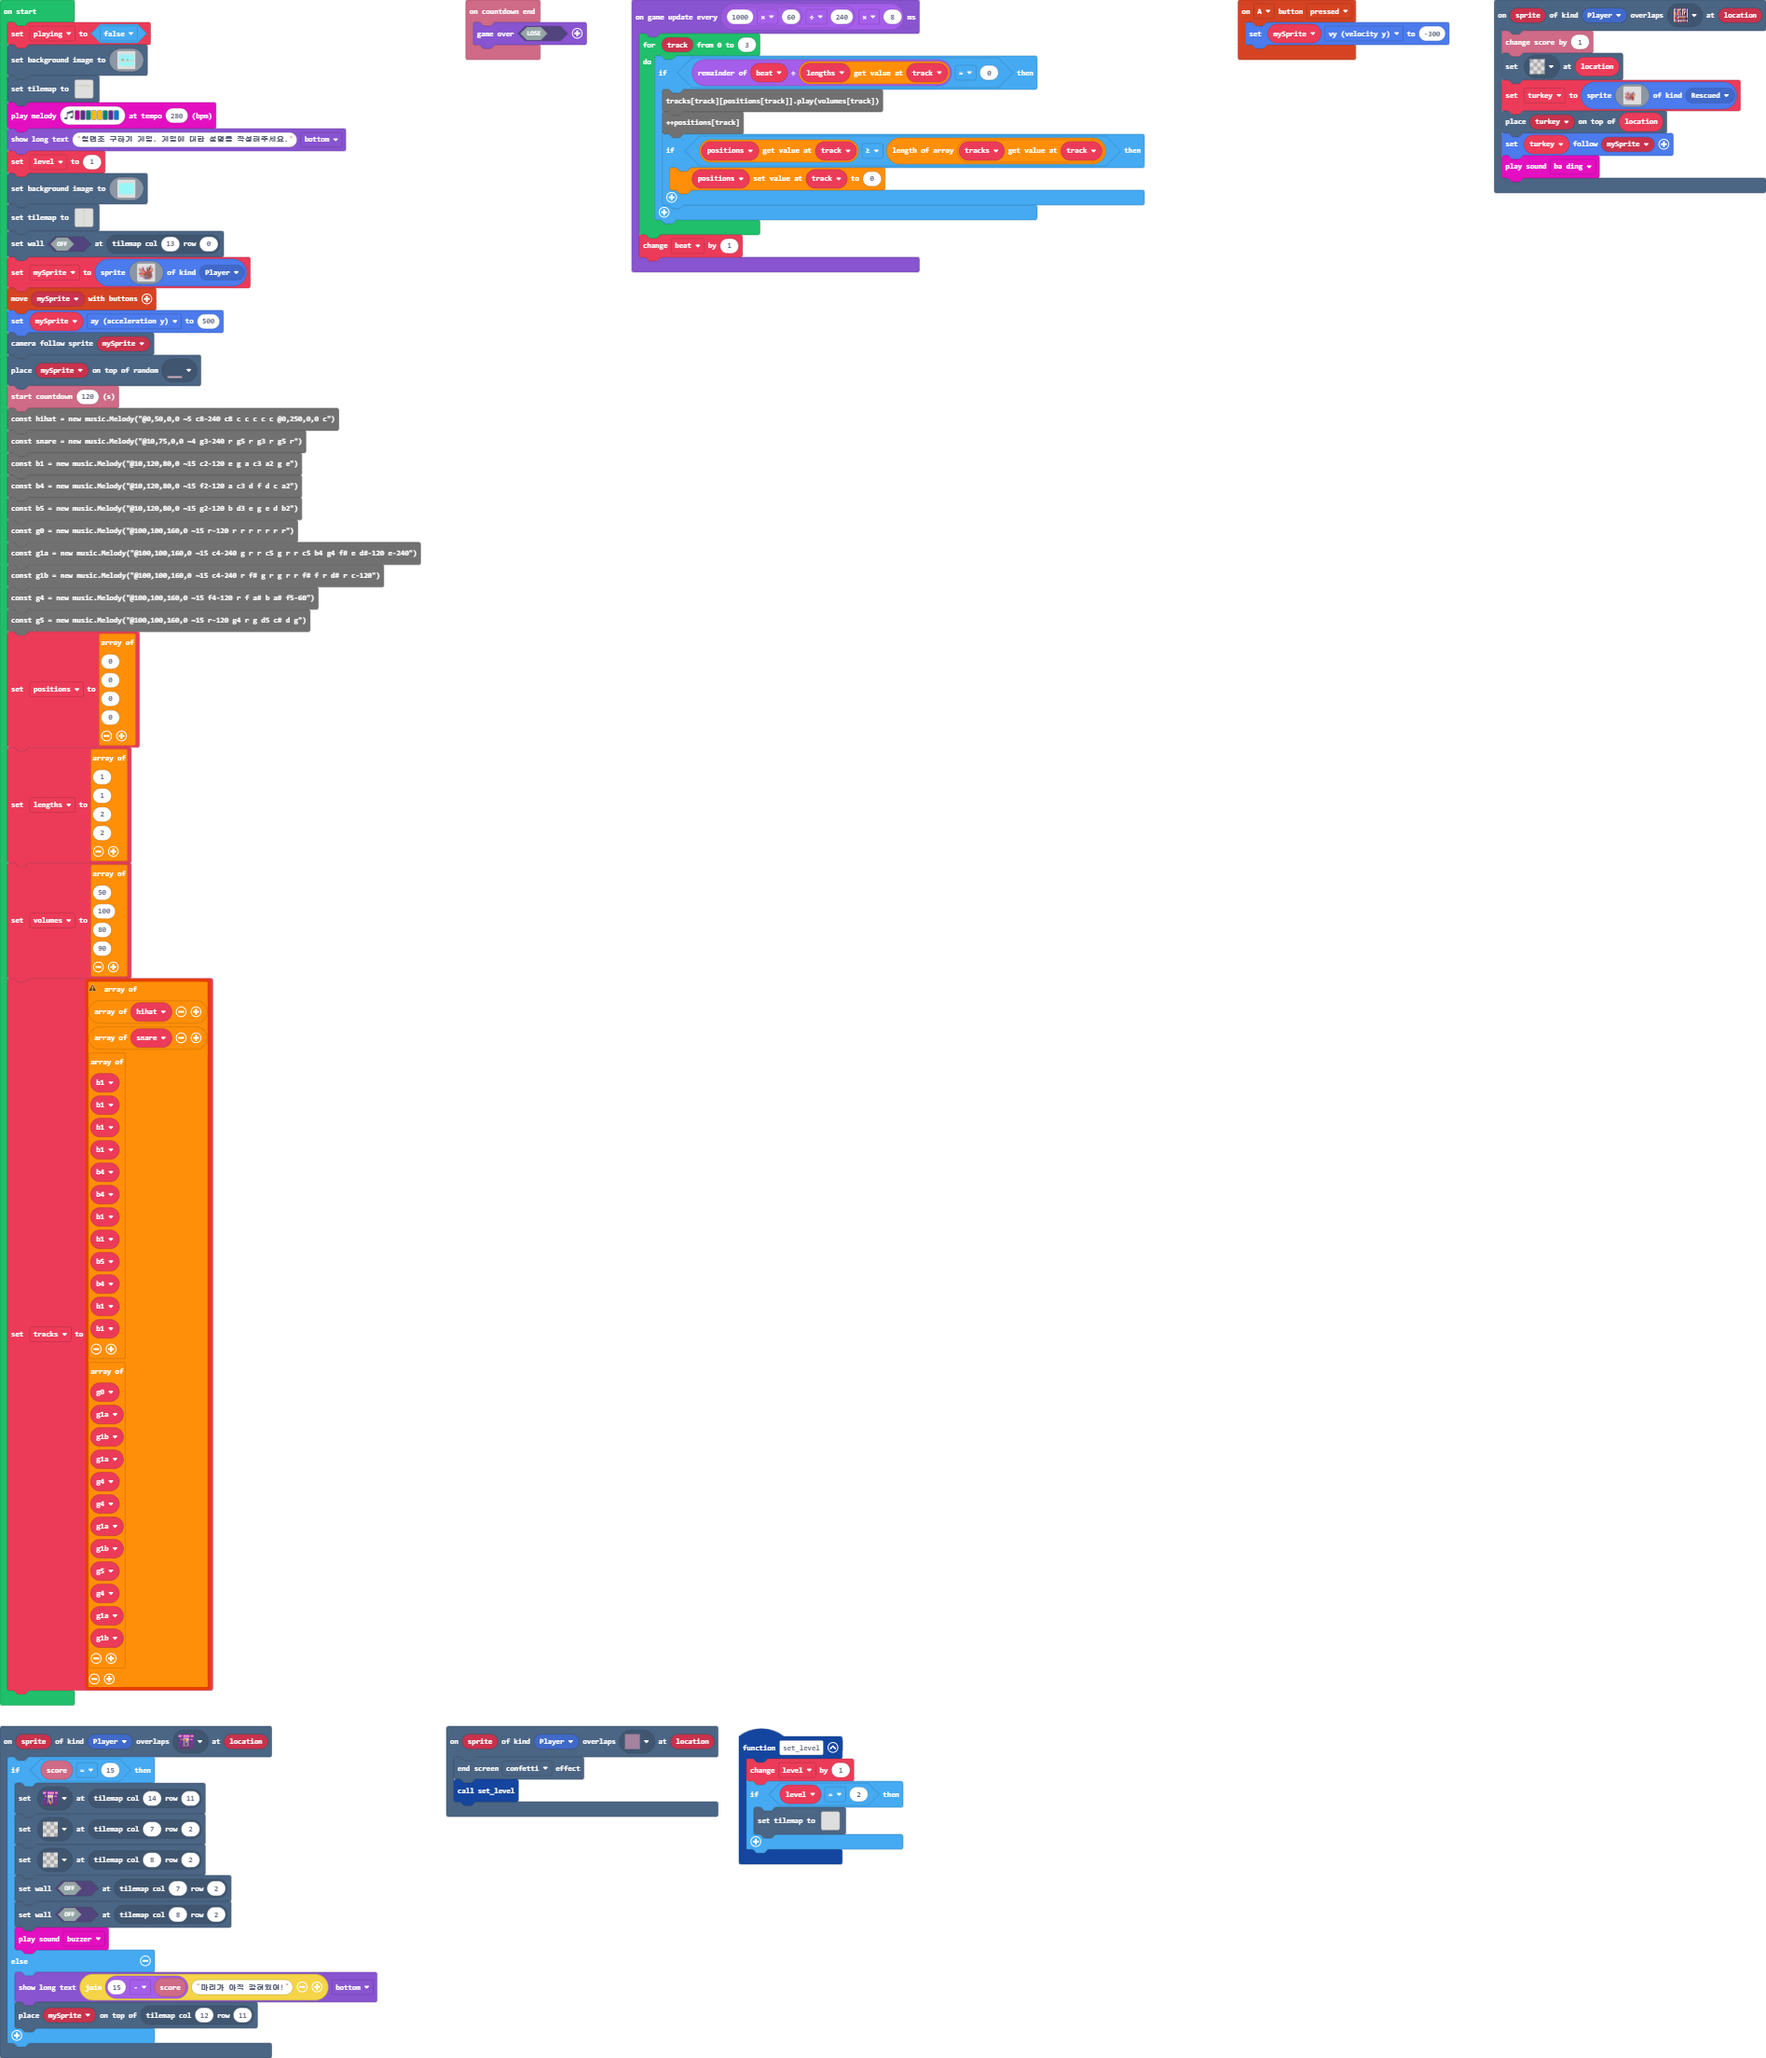
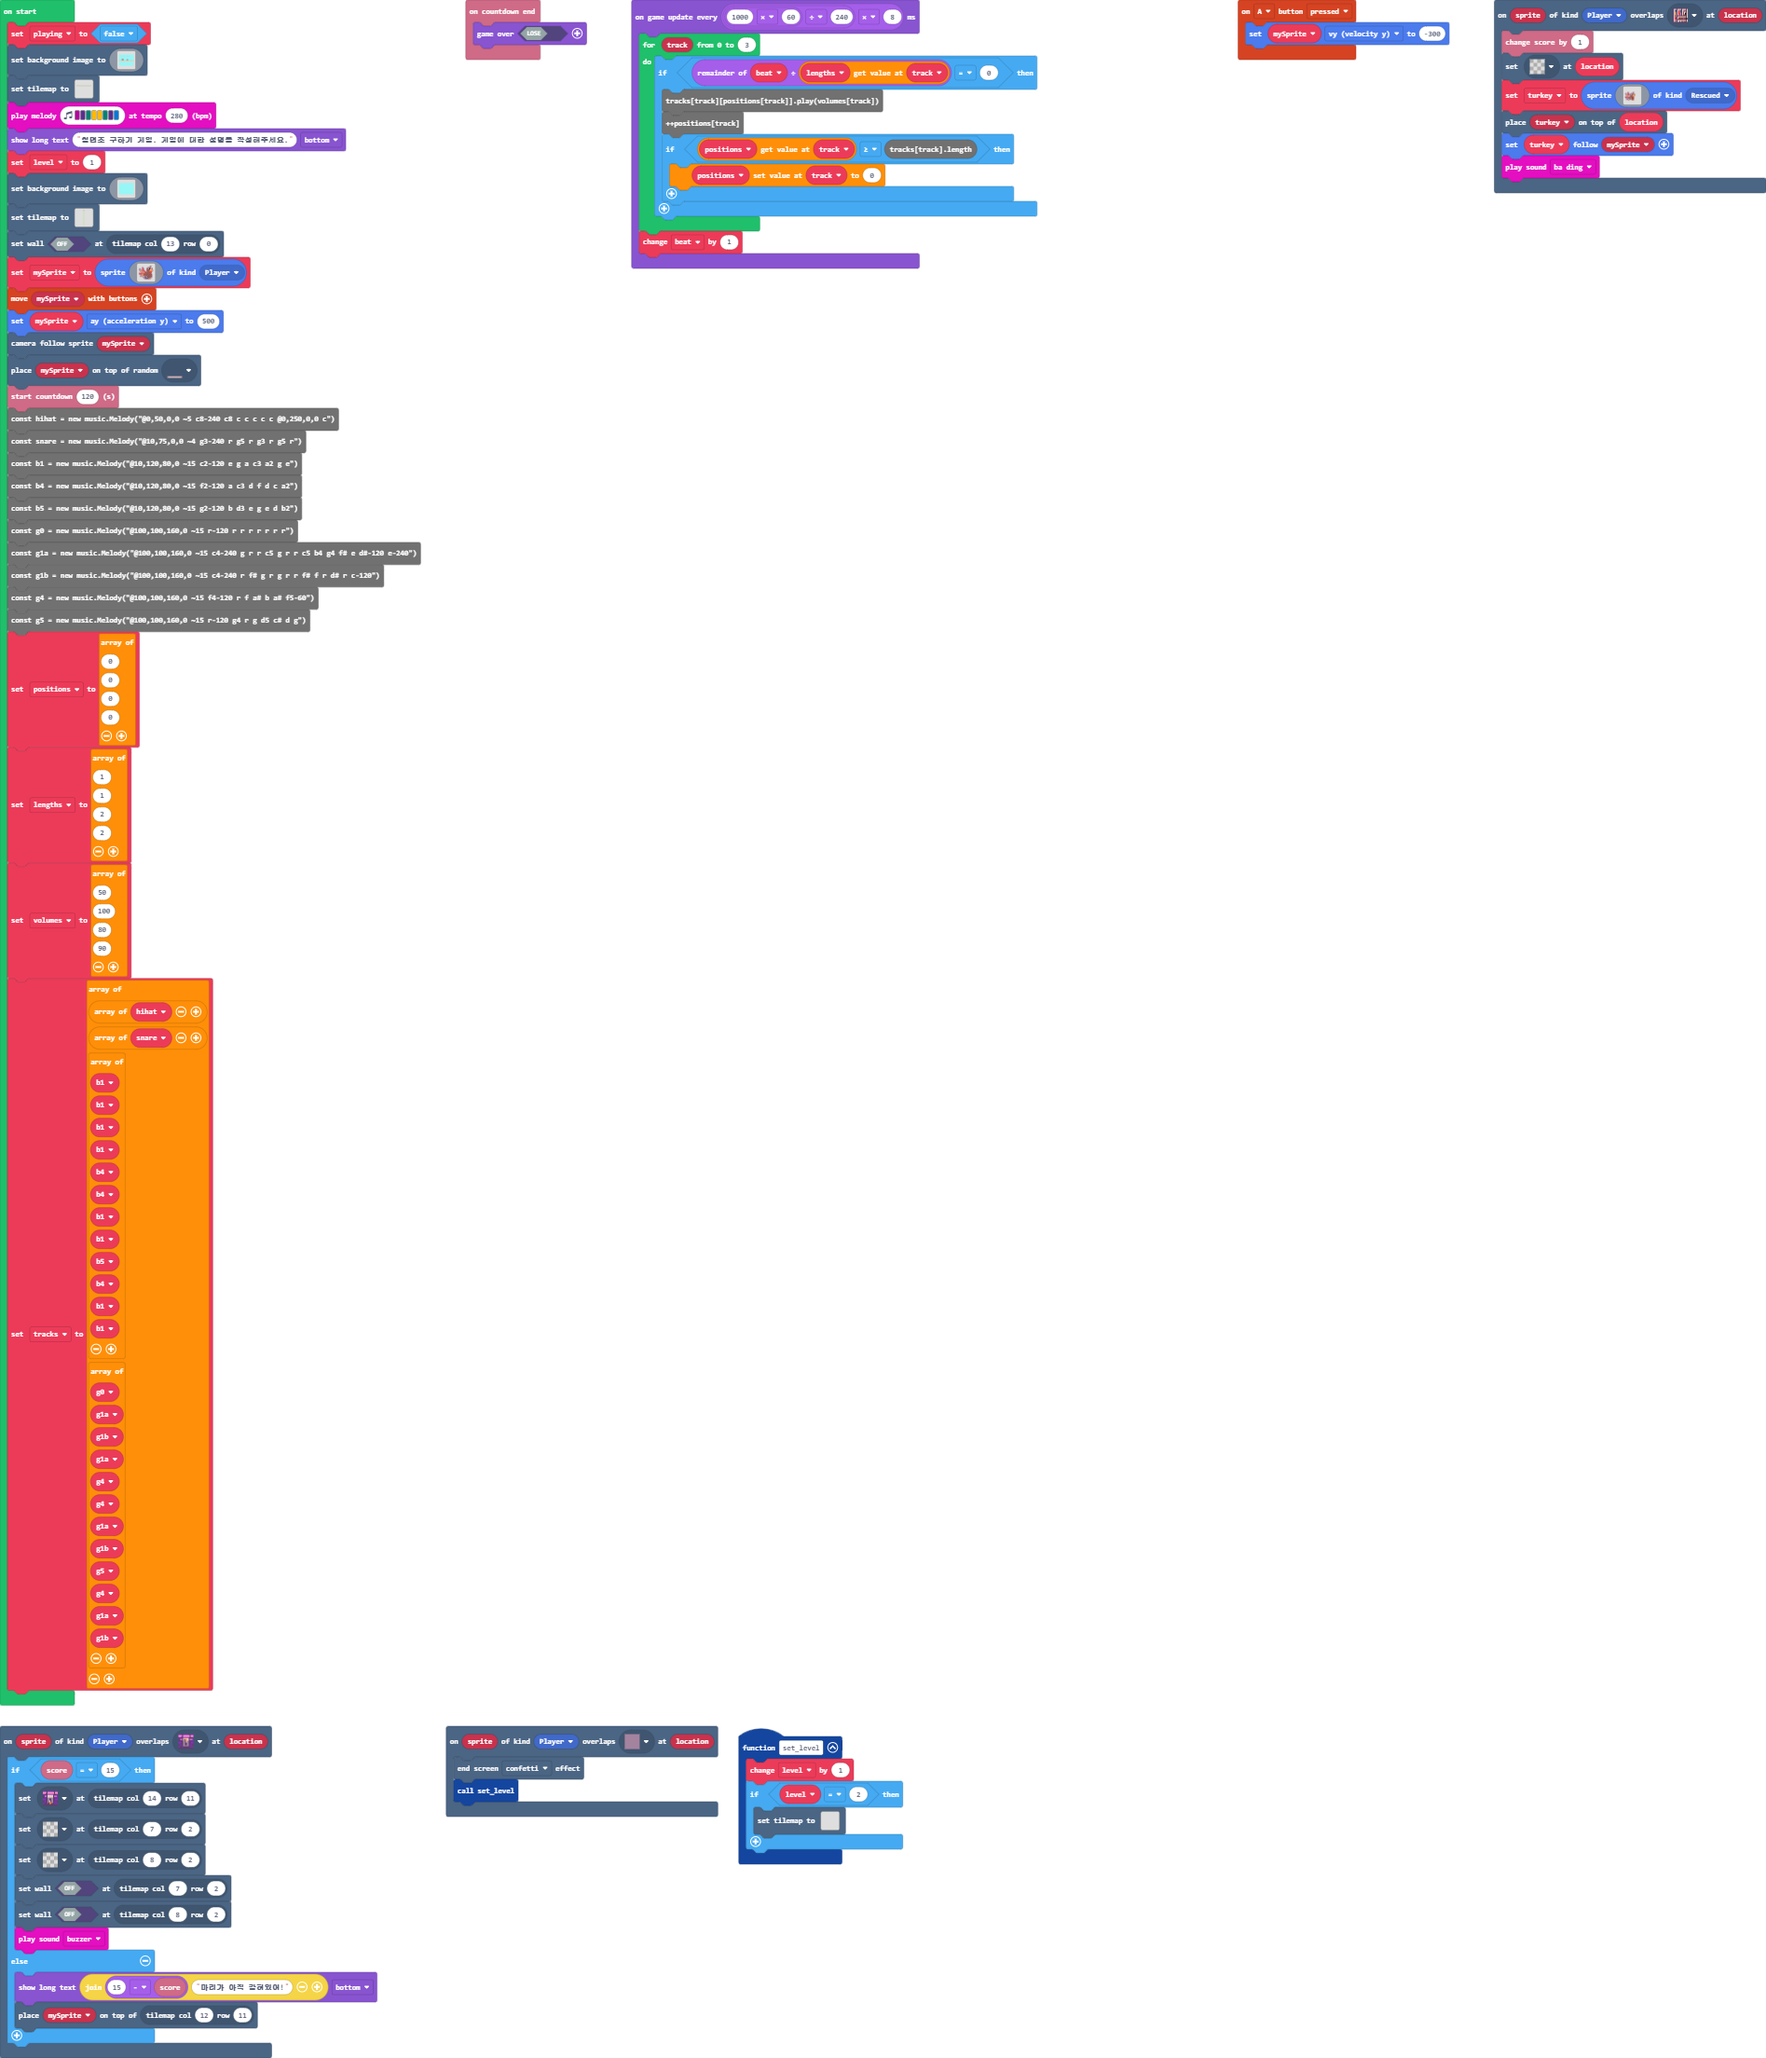
fixed wrong code bug

Changed region(s): [[0.3425, 0.0625, 0.6538, 0.125], [0.0311, 0.4688, 0.0623, 0.5]]

diff --git a/tilemap.g.ts b/tilemap.g.ts
@@ -448,6 +448,63 @@ namespace myTiles {
 ................
 ................
 `, [myTiles.transparency16], TileScale.Sixteen);
+            case "level8":
+            case "level8":return tiles.createTilemap(hex`1000100000000000000000000000000000000000000000000000000000000000000000000000000000000000000000000000000000000000000000000000000000000000000000000000000000000000000000000000000000000000000000000000000000000000000000000000000000000000000000000000000000000000000000000000000000000000000000000000000000000000000000000000000000000000000000000000000000000000000000000000000000000000000000000000000000000000000000000000000000000000000000000000000000000000000000000000000000000000000000000000000000000000000000000000000000000000`, img`
+. . . . . . . . . . . . . . . . 
+. . . . . . . . . . . . . . . . 
+. . . . . . . . . . . . . . . . 
+. . . . . . . . . . . . . . . . 
+. . . . . . . . . . . . . . . . 
+. . . . . . . . . . . . . . . . 
+. . . . . . . . . . . . . . . . 
+. . . . . . . . . . . . . . . . 
+. . . . . . . . . . . . . . . . 
+. . . . . . . . . . . . . . . . 
+. . . . . . . . . . . . . . . . 
+. . . . . . . . . . . . . . . . 
+. . . . . . . . . . . . . . . . 
+. . . . . . . . . . . . . . . . 
+. . . . . . . . . . . . . . . . 
+. . . . . . . . . . . . . . . . 
+`, [myTiles.transparency16], TileScale.Sixteen);
+            case "level9":
+            case "level9":return tiles.createTilemap(hex`1000100000000000000000000000000000000000000000000000000000000000000000000000000000000000000000000000000000000000000000000000000000000000000000000000000000000000000000000000000000000000000000000000000000000000000000000000000000000000000000000000000000000000000000000000000000000000000000000000000000000000000000000000000000000000000000000000000000000000000000000000000000000000000000000000000000000000000000000000000000000000000000000000000000000000000000000000000000000000000000000000000000000000000000000000000000000000`, img`
+. . . . . . . . . . . . . . . . 
+. . . . . . . . . . . . . . . . 
+. . . . . . . . . . . . . . . . 
+. . . . . . . . . . . . . . . . 
+. . . . . . . . . . . . . . . . 
+. . . . . . . . . . . . . . . . 
+. . . . . . . . . . . . . . . . 
+. . . . . . . . . . . . . . . . 
+. . . . . . . . . . . . . . . . 
+. . . . . . . . . . . . . . . . 
+. . . . . . . . . . . . . . . . 
+. . . . . . . . . . . . . . . . 
+. . . . . . . . . . . . . . . . 
+. . . . . . . . . . . . . . . . 
+. . . . . . . . . . . . . . . . 
+. . . . . . . . . . . . . . . . 
+`, [myTiles.transparency16], TileScale.Sixteen);
+            case "level10":
+            case "level10":return tiles.createTilemap(hex`1000100000000000000000000000000000000000000000000000000000000000000000000000000000000000000000000000000000000000000000000000000000000000000000000000000000000000000000000000000000000000000000000000000000000000000000000000000000000000000000000000000000000000000000000000000000000000000000000000000000000000000000000000000000000000000000000000000000000000000000000000000000000000000000000000000000000000000000000000000000000000000000000000000000000000000000000000000000000000000000000000000000000000000000000000000000000000`, img`
+. . . . . . . . . . . . . . . . 
+. . . . . . . . . . . . . . . . 
+. . . . . . . . . . . . . . . . 
+. . . . . . . . . . . . . . . . 
+. . . . . . . . . . . . . . . . 
+. . . . . . . . . . . . . . . . 
+. . . . . . . . . . . . . . . . 
+. . . . . . . . . . . . . . . . 
+. . . . . . . . . . . . . . . . 
+. . . . . . . . . . . . . . . . 
+. . . . . . . . . . . . . . . . 
+. . . . . . . . . . . . . . . . 
+. . . . . . . . . . . . . . . . 
+. . . . . . . . . . . . . . . . 
+. . . . . . . . . . . . . . . . 
+. . . . . . . . . . . . . . . . 
+`, [myTiles.transparency16], TileScale.Sixteen);
         }
         return null;
     })

diff --git a/main.ts b/main.ts
@@ -332,7 +332,7 @@ let volumes = [
 80,
 90
 ]
-let tracks: Array[] = [
+let tracks = [
 [hihat],
 [snare],
 [
